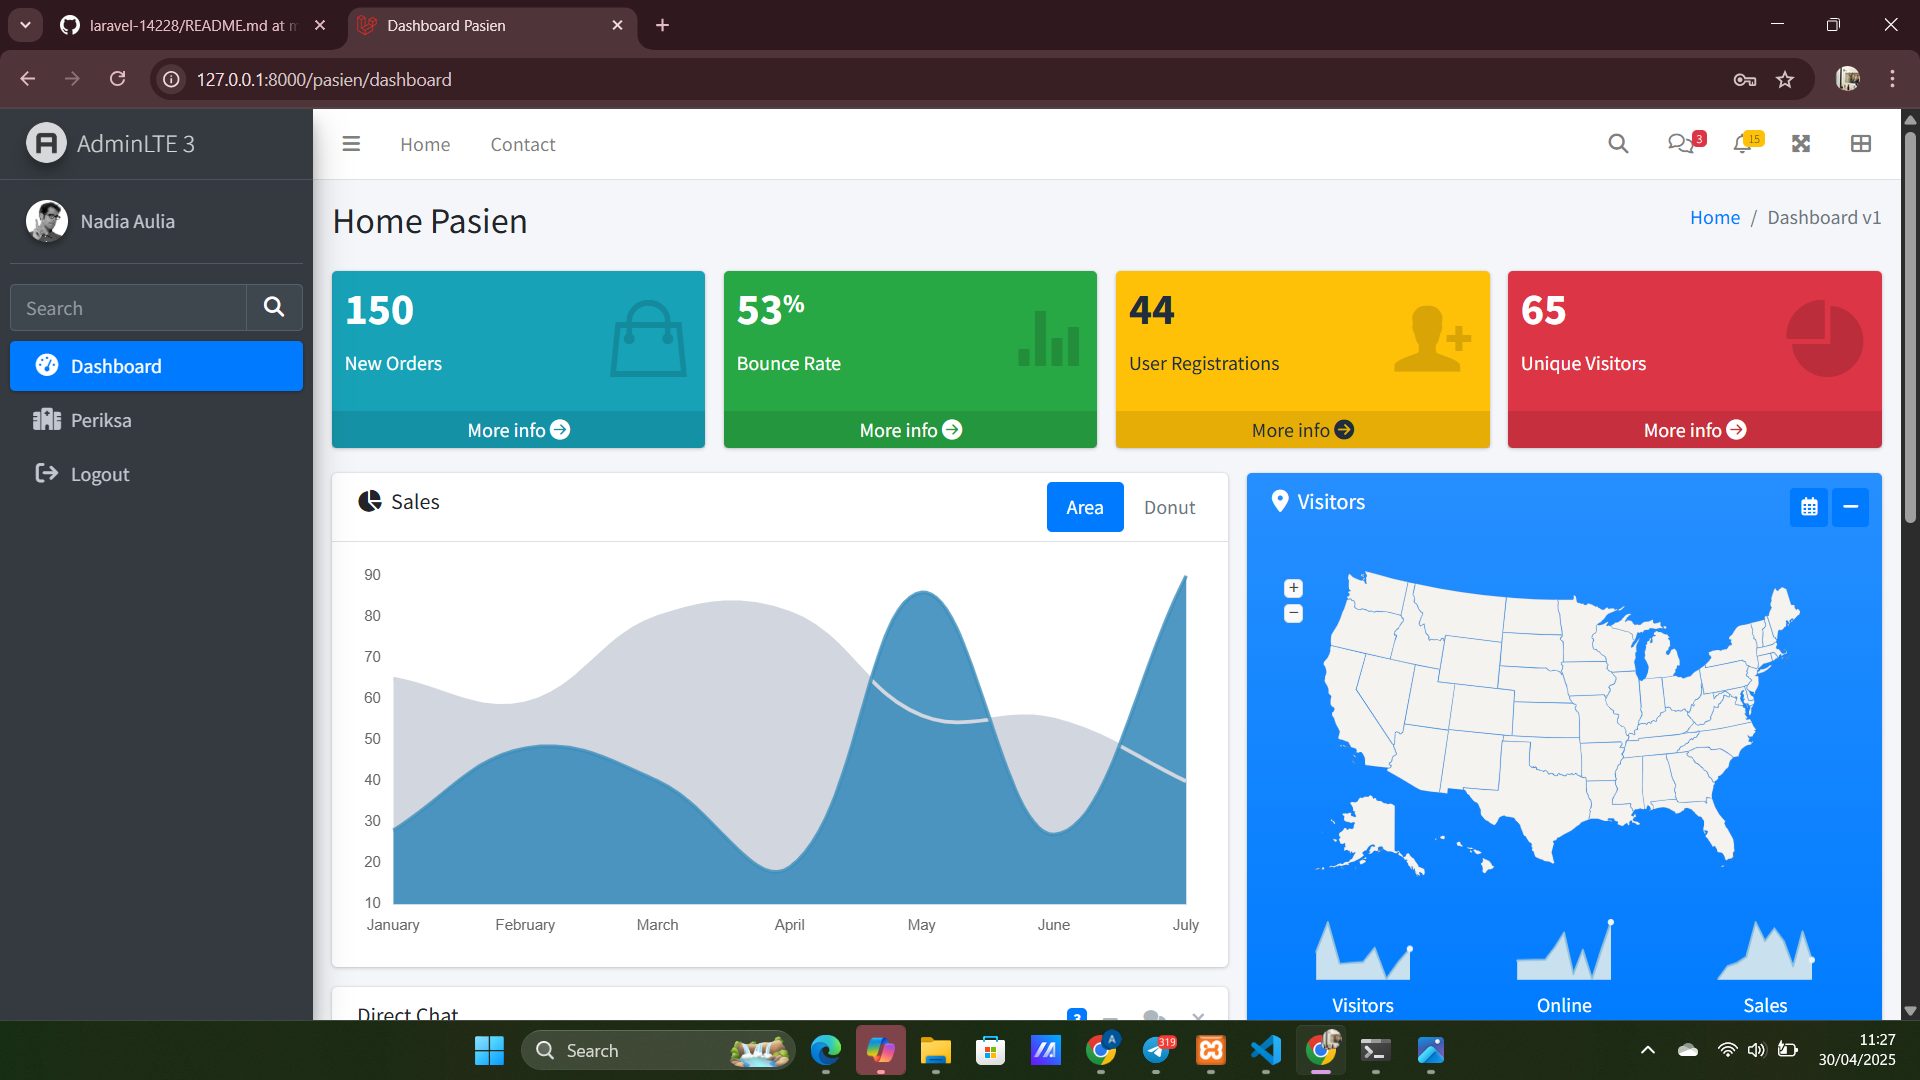
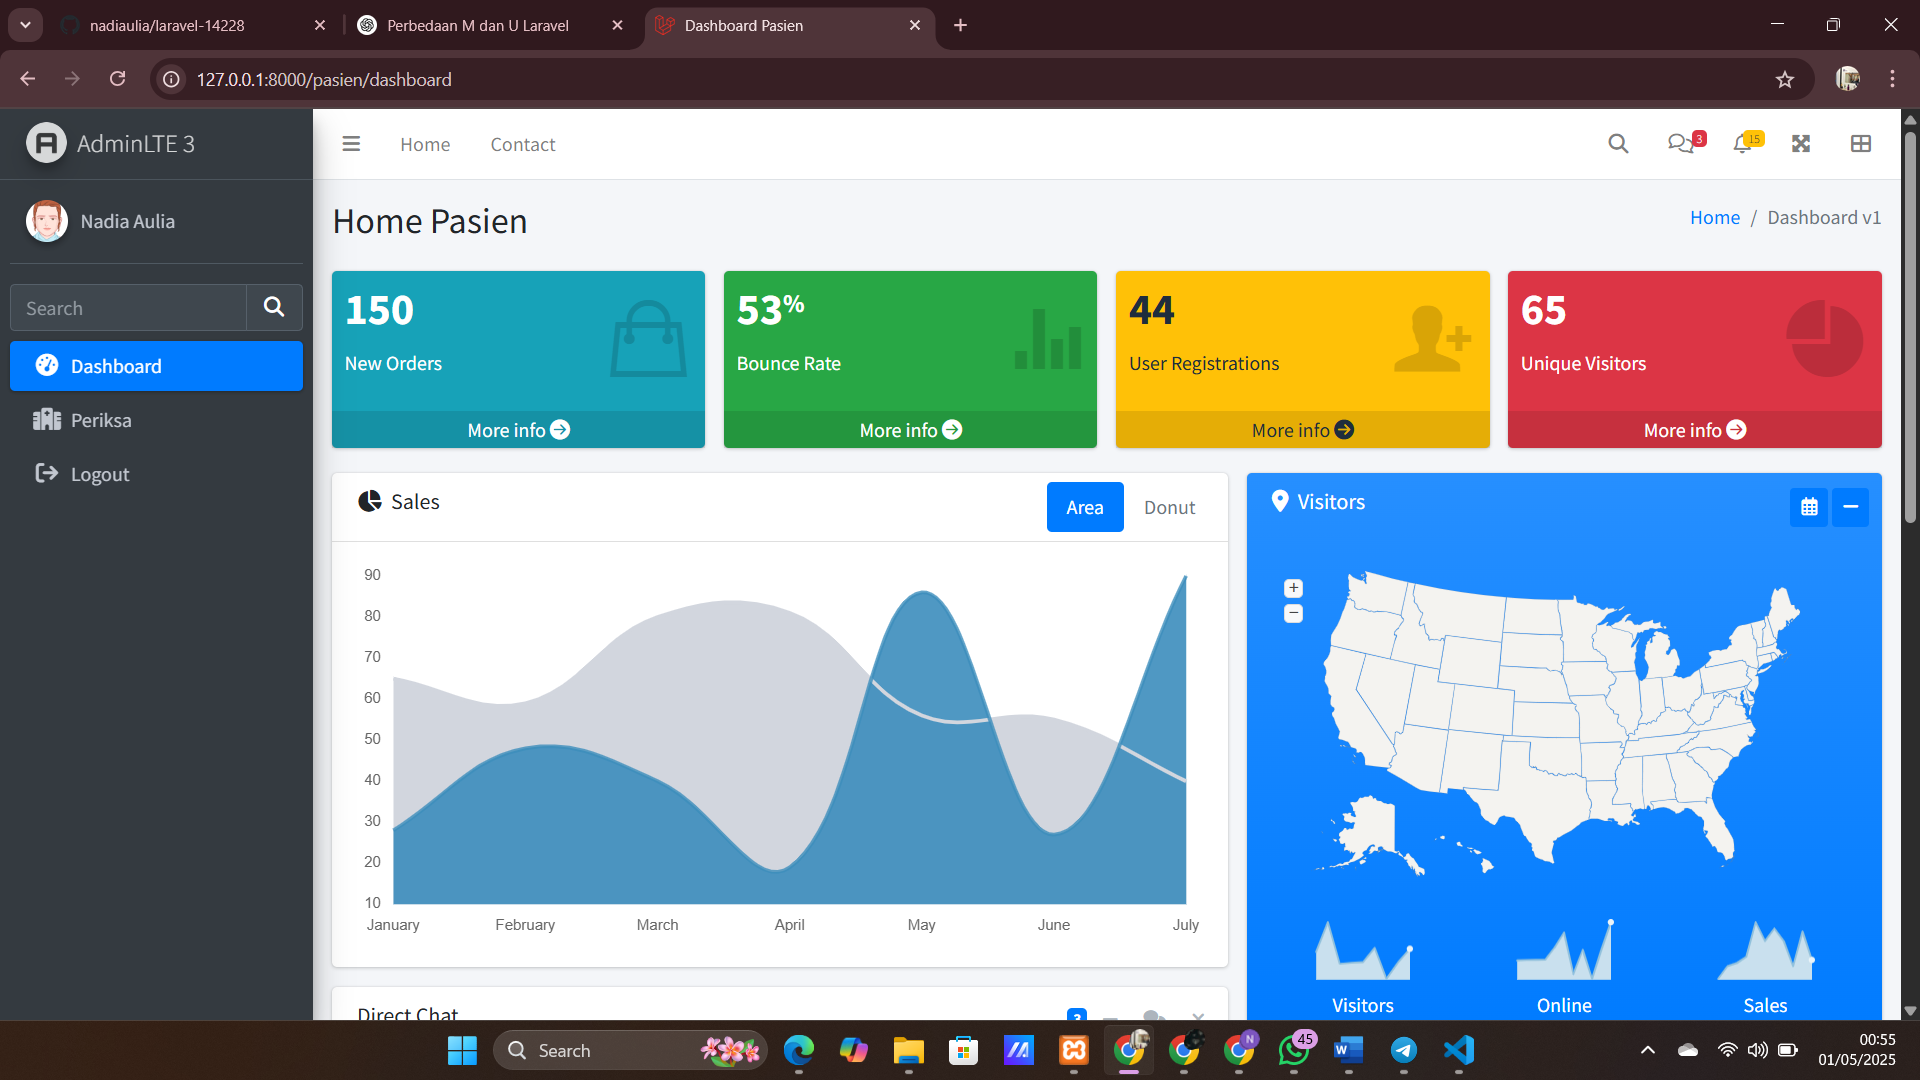
pembaruan

diff --git a/resources/views/dokter/index.blade.php b/resources/views/dokter/index.blade.php
@@ -153,8 +153,8 @@
                                 <!-- Message. Default to the left -->
                                 <div class="direct-chat-msg">
                                     <div class="direct-chat-infos clearfix">
-                                        <span class="direct-chat-name float-left">Nadia Aulia</span>
-                                        <span class="direct-chat-timestamp float-right">05 April 2:00 pm</span>
+                                        <span class="direct-chat-name float-left">Savaro</span>
+                                        <span class="direct-chat-timestamp float-right">23 Jan 2:00 pm</span>
                                     </div>
                                     <!-- /.direct-chat-infos -->
                                     <img class="direct-chat-img" src="{{ asset('lte/dist/img/user1-128x128.jpg') }}"
@@ -170,8 +170,8 @@
                                 <!-- Message to the right -->
                                 <div class="direct-chat-msg right">
                                     <div class="direct-chat-infos clearfix">
-                                        <span class="direct-chat-name float-right">Wanda</span>
-                                        <span class="direct-chat-timestamp float-left">05 April 3:05 pm</span>
+                                        <span class="direct-chat-name float-right">Amelia</span>
+                                        <span class="direct-chat-timestamp float-left">23 Jan 2:05 pm</span>
                                     </div>
                                     <!-- /.direct-chat-infos -->
                                     <img class="direct-chat-img" src="{{ asset('lte/dist/img/user3-128x128.jpg') }}"
@@ -187,7 +187,7 @@
                                 <!-- Message. Default to the left -->
                                 <div class="direct-chat-msg">
                                     <div class="direct-chat-infos clearfix">
-                                        <span class="direct-chat-name float-left">Savero</span>
+                                        <span class="direct-chat-name float-left">Savaro</span>
                                         <span class="direct-chat-timestamp float-right">23 Jan 5:37 pm</span>
                                     </div>
                                     <!-- /.direct-chat-infos -->
@@ -204,7 +204,7 @@
                                 <!-- Message to the right -->
                                 <div class="direct-chat-msg right">
                                     <div class="direct-chat-infos clearfix">
-                                        <span class="direct-chat-name float-right">Putri</span>
+                                        <span class="direct-chat-name float-right">Amelia</span>
                                         <span class="direct-chat-timestamp float-left">23 Jan 6:10 pm</span>
                                     </div>
                                     <!-- /.direct-chat-infos -->

diff --git a/resources/views/pasien/index.blade.php b/resources/views/pasien/index.blade.php
@@ -163,7 +163,7 @@
                             <!-- Message. Default to the left -->
                             <div class="direct-chat-msg">
                                 <div class="direct-chat-infos clearfix">
-                                    <span class="direct-chat-name float-left">Nadia Aulia</span>
+                                    <span class="direct-chat-name float-left">Savaro</span>
                                     <span class="direct-chat-timestamp float-right">23 Jan 2:00 pm</span>
                                 </div>
                                 <!-- /.direct-chat-infos -->
@@ -180,7 +180,7 @@
                             <!-- Message to the right -->
                             <div class="direct-chat-msg right">
                                 <div class="direct-chat-infos clearfix">
-                                    <span class="direct-chat-name float-right">Wanda Yuniar</span>
+                                    <span class="direct-chat-name float-right">Amelia</span>
                                     <span class="direct-chat-timestamp float-left">23 Jan 2:05 pm</span>
                                 </div>
                                 <!-- /.direct-chat-infos -->
@@ -197,7 +197,7 @@
                             <!-- Message. Default to the left -->
                             <div class="direct-chat-msg">
                                 <div class="direct-chat-infos clearfix">
-                                    <span class="direct-chat-name float-left">Nadia Aulia</span>
+                                    <span class="direct-chat-name float-left">Savaro</span>
                                     <span class="direct-chat-timestamp float-right">23 Jan 5:37 pm</span>
                                 </div>
                                 <!-- /.direct-chat-infos -->
@@ -214,7 +214,7 @@
                             <!-- Message to the right -->
                             <div class="direct-chat-msg right">
                                 <div class="direct-chat-infos clearfix">
-                                    <span class="direct-chat-name float-right">Wanda Yuniar</span>
+                                    <span class="direct-chat-name float-right">Amelia</span>
                                     <span class="direct-chat-timestamp float-left">23 Jan 6:10 pm</span>
                                 </div>
                                 <!-- /.direct-chat-infos -->

diff --git a/resources/views/layout/app.blade.php b/resources/views/layout/app.blade.php
@@ -201,7 +201,7 @@
                 <!-- Sidebar user panel (optional) -->
                 <div class="user-panel mt-3 pb-3 mb-3 d-flex">
                     <div class="image">
-                        <img src="{{ asset('lte/dist/img/user2-160x160.jpg') }}" class="img-circle elevation-2"
+                        <img src="{{ asset('lte/dist/img/avatar2.png') }}" class="img-circle elevation-2"
                             alt="User Image">
                     </div>
                     <div class="info">

diff --git a/database/migrations/0001_01_01_000000_create_users_table.php b/database/migrations/0001_01_01_000000_create_users_table.php
@@ -19,7 +19,7 @@ return new class extends Migration
             $table->string('email')->unique();
             $table->timestamp('email_verified_at')->nullable();
             $table->string('password');
-            //$table->enum('role', ['pasien', 'dokter'])->default('pasien');
+            $table->enum('role', ['pasien', 'dokter'])->default('pasien');
             $table->rememberToken();
             $table->timestamps();
         });

diff --git a/README.md b/README.md
@@ -3,15 +3,15 @@
 Repositori tugas bengkel koding website sismenkes dengan laravel.
 
 ```
-Nama : Nadia Aulia Astrianingrum
-NIM  : A11.2022.14228
+Nama : Heryawan Eko Saputro
+NIM  : A11.2022.14237
 ```
 
 ## Cara menjalankan projek secara lokal
 
 1. Clone repositori:
 ```bash
-git clone https://github.com/nadiaulia/laravel-14228.git
+git clone https://github.com/yourusername/RavaelaBkod.git
 cd RavaelaBkod
 ```
 
@@ -103,6 +103,7 @@ public function dokters(): HasMany
     return $this->hasMany(Periksa::class, 'id_dokter');
 }
 ```
+
 ### Testing RBAC
 
 Anda dapan memastikan apakah fungsi RBAC berfungsi atau tidak dengan:
@@ -113,32 +114,63 @@ Anda dapan memastikan apakah fungsi RBAC berfungsi atau tidak dengan:
 ### Screenshot akses ditolak
 
 ![Akses Ditolak - Dokter](TSS/T1.png)
-Dokter ketika mencoba mengakses halaman pasien
+*Dokter ketika mencoba mengakses halaman pasien*
+
+## Skema Database & Model
+
+### File Migrasi
+
+1. Migrasi Detail Periksa
+![Migrasi Detail Periksa](TSS/tgA2.png)
+*Migrasi untuk tabel detail_periksas*
+
+2. Obat Migration
+![Obat Migration](TSS/tgA1.png)
+*Migrasi untuk tabel obats*
+
+### Model Files
+
+1. Model Periksa
+![Model Periksa](TSS/tgA3.png)
+*Implementasi model Periksa dengan relasinya*
+
+2. Model Detail Periksa  
+![Model Detail Periksa](TSS/tgA4.png)
+*Implementasi model DetailPeriksa dengan relasinya*
+
+3. Model Obat
+![Model Obat](TSS/tgA5.png)
+*Implementasi model Obat dengan relasinya*
+
+### Database Setup
+
+![Migrasi Sukes](TSS/tgA7.png)
+*Screenshot terminal menunjukkan migrasi database berhasil*
+
+## User Interface
 
 ### Halaman Publik
 1. Landing Page
 ![Landing Page](TSS/T2.png)
-Halaman awal website yang dapat diakses publik
+*Halaman awal website yang dapat diakses publik*
 
 2. Halaman Login
 ![Login Page](TSS/T3.png) 
-Halaman login untuk dokter dan pasien
+*Halaman login untuk dokter dan pasien*
 
 3. Halaman Register 
 ![Register Page](TSS/T4.png)
-Halaman pendaftaran untuk pasien baru
-
-### Halaman Pasien
-1. Dashboard
-![Dashboard Pasien](TSS/T5.png)
-Halaman dashboard untuk Pasien
+*Halaman pendaftaran untuk pasien baru*
 
 ### Halaman Dokter
 1. Dashboard
-![Dashboard Dokter](TSS/T6.png)
-Halaman dashboard untuk dokter
+![Dashboard Dokter](TSS/T5.png)
+*Halaman dashboard untuk dokter*
 
-2. Obat
-![Obat](TSS/T7.png)
-Halaman obat untuk dokter
+3. Daftar Obat  
+![List Obat](TSS/T6.png)
+*Halaman pengelolaan daftar obat*
 
+4. Form Tambah Obat
+![Add Medicine](TSS/T7.png)
+*Form untuk menambahkan obat baru*
